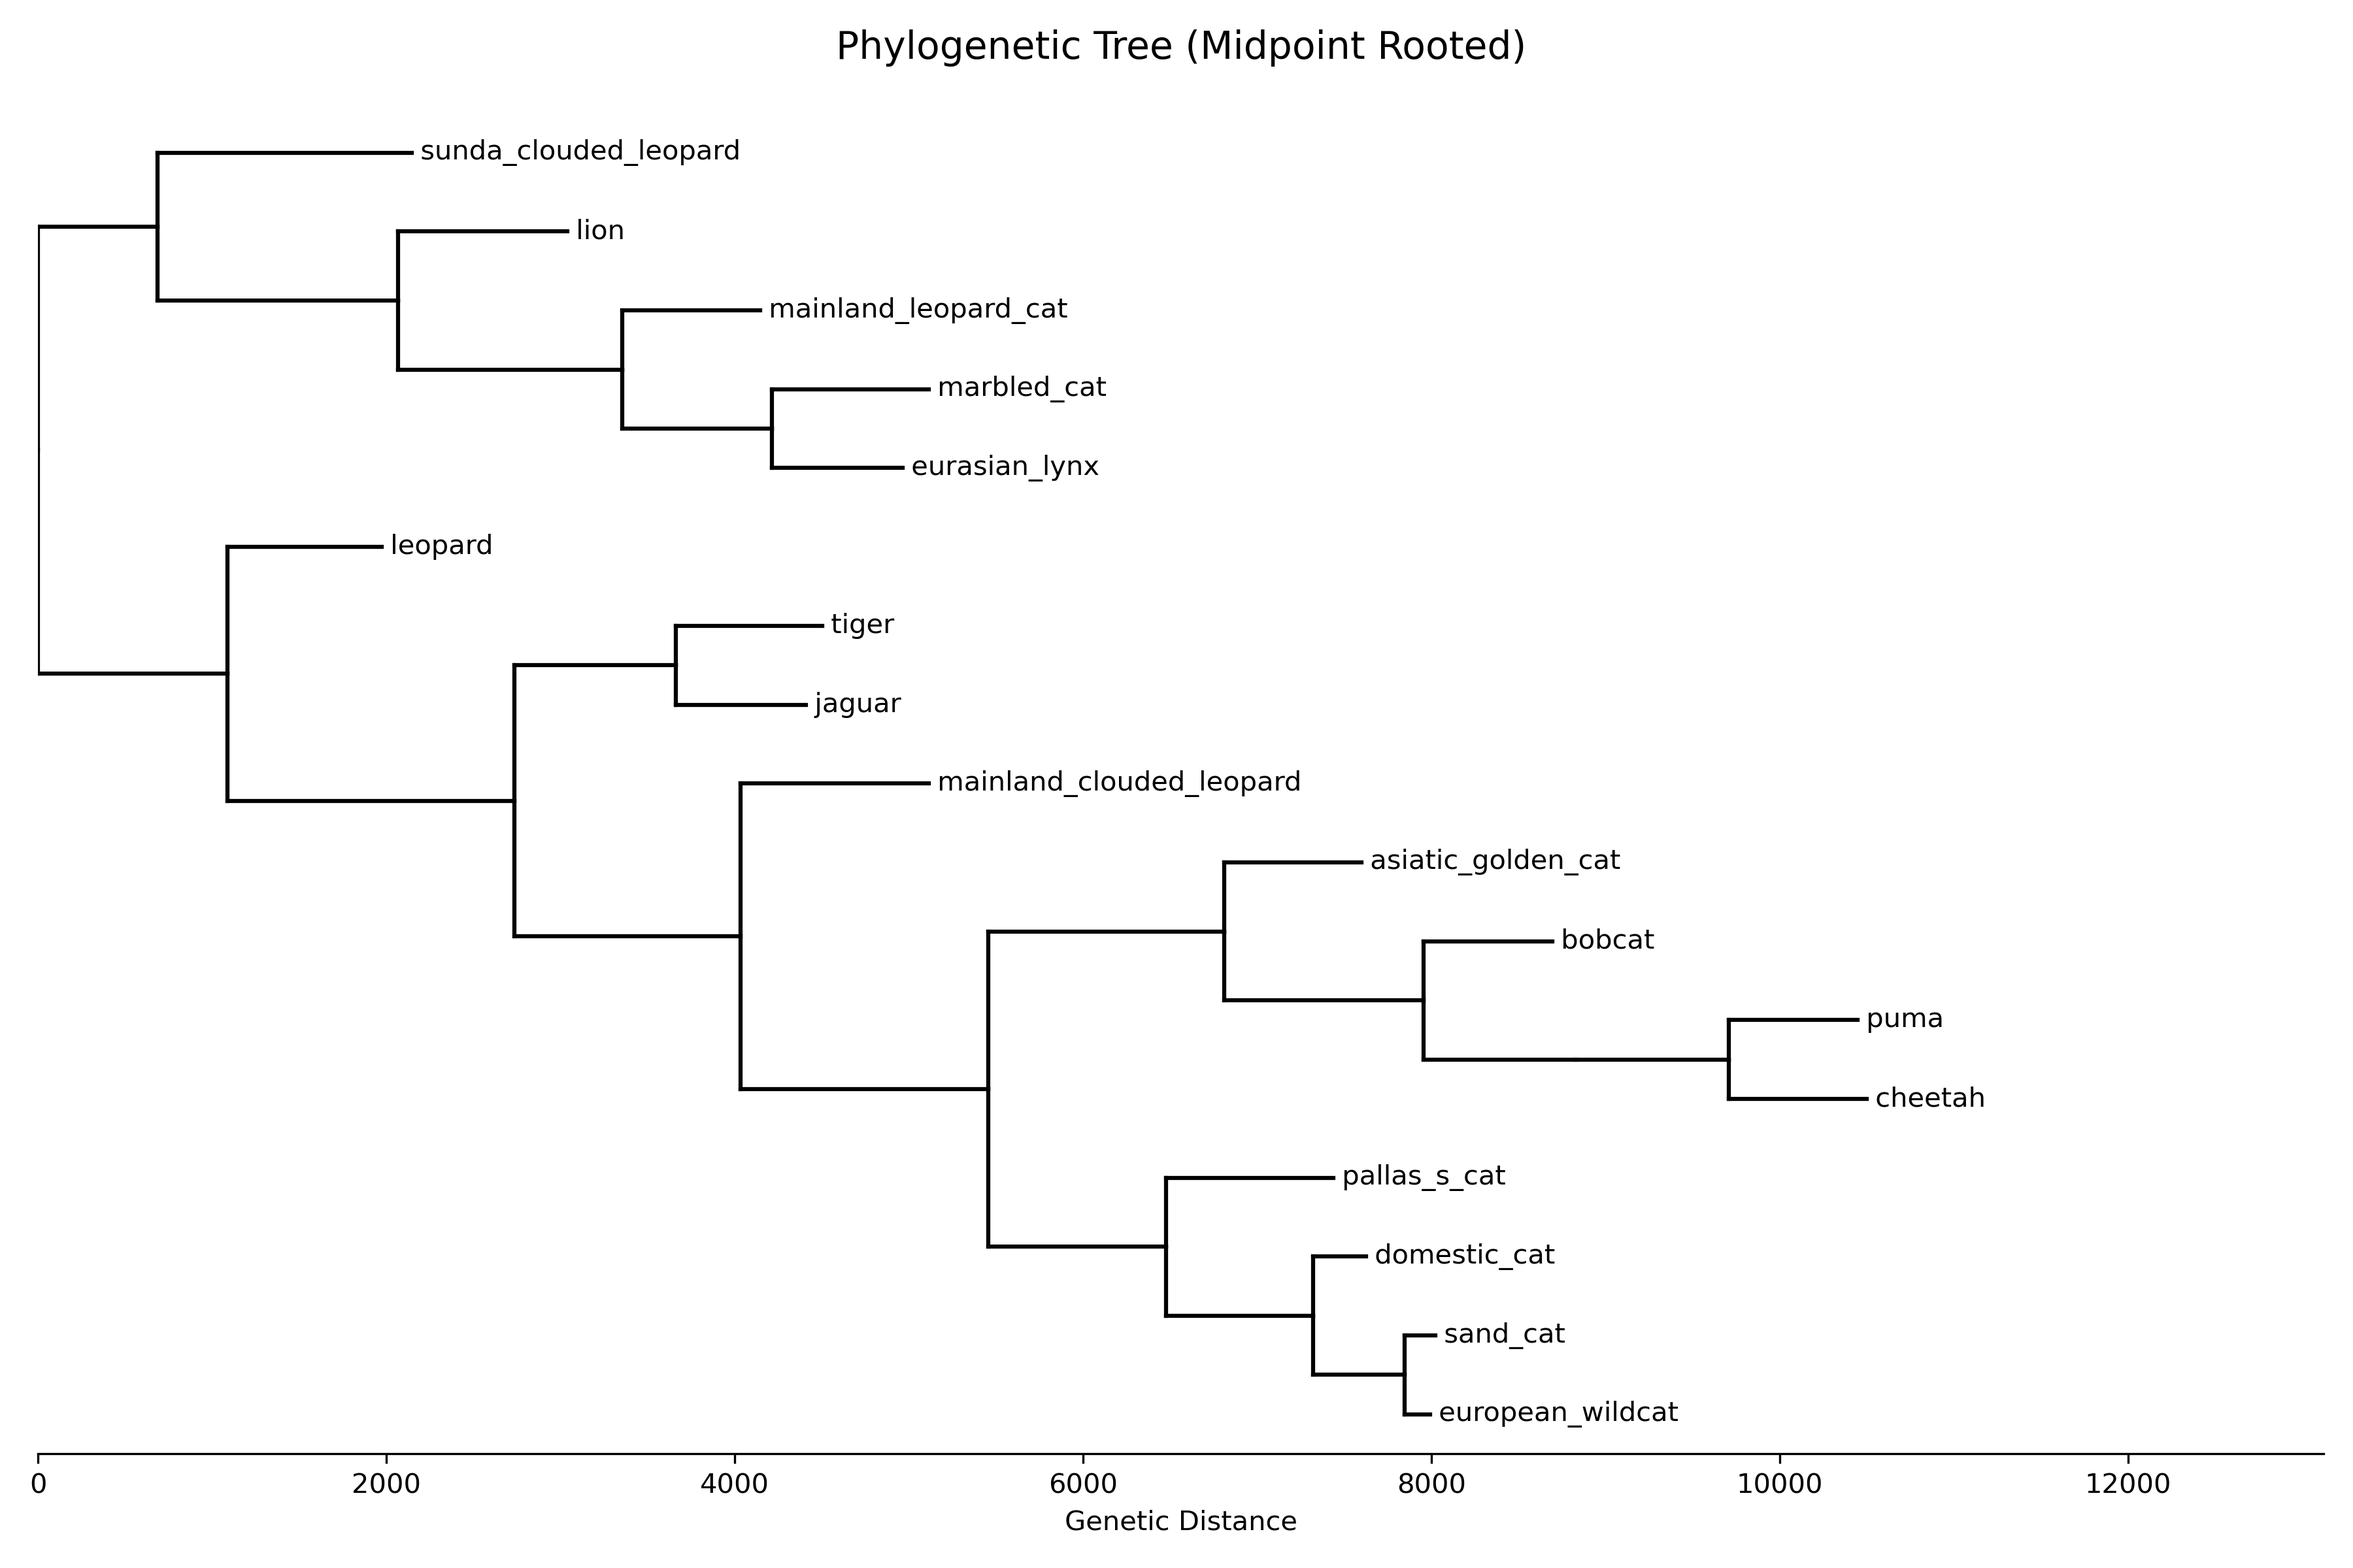
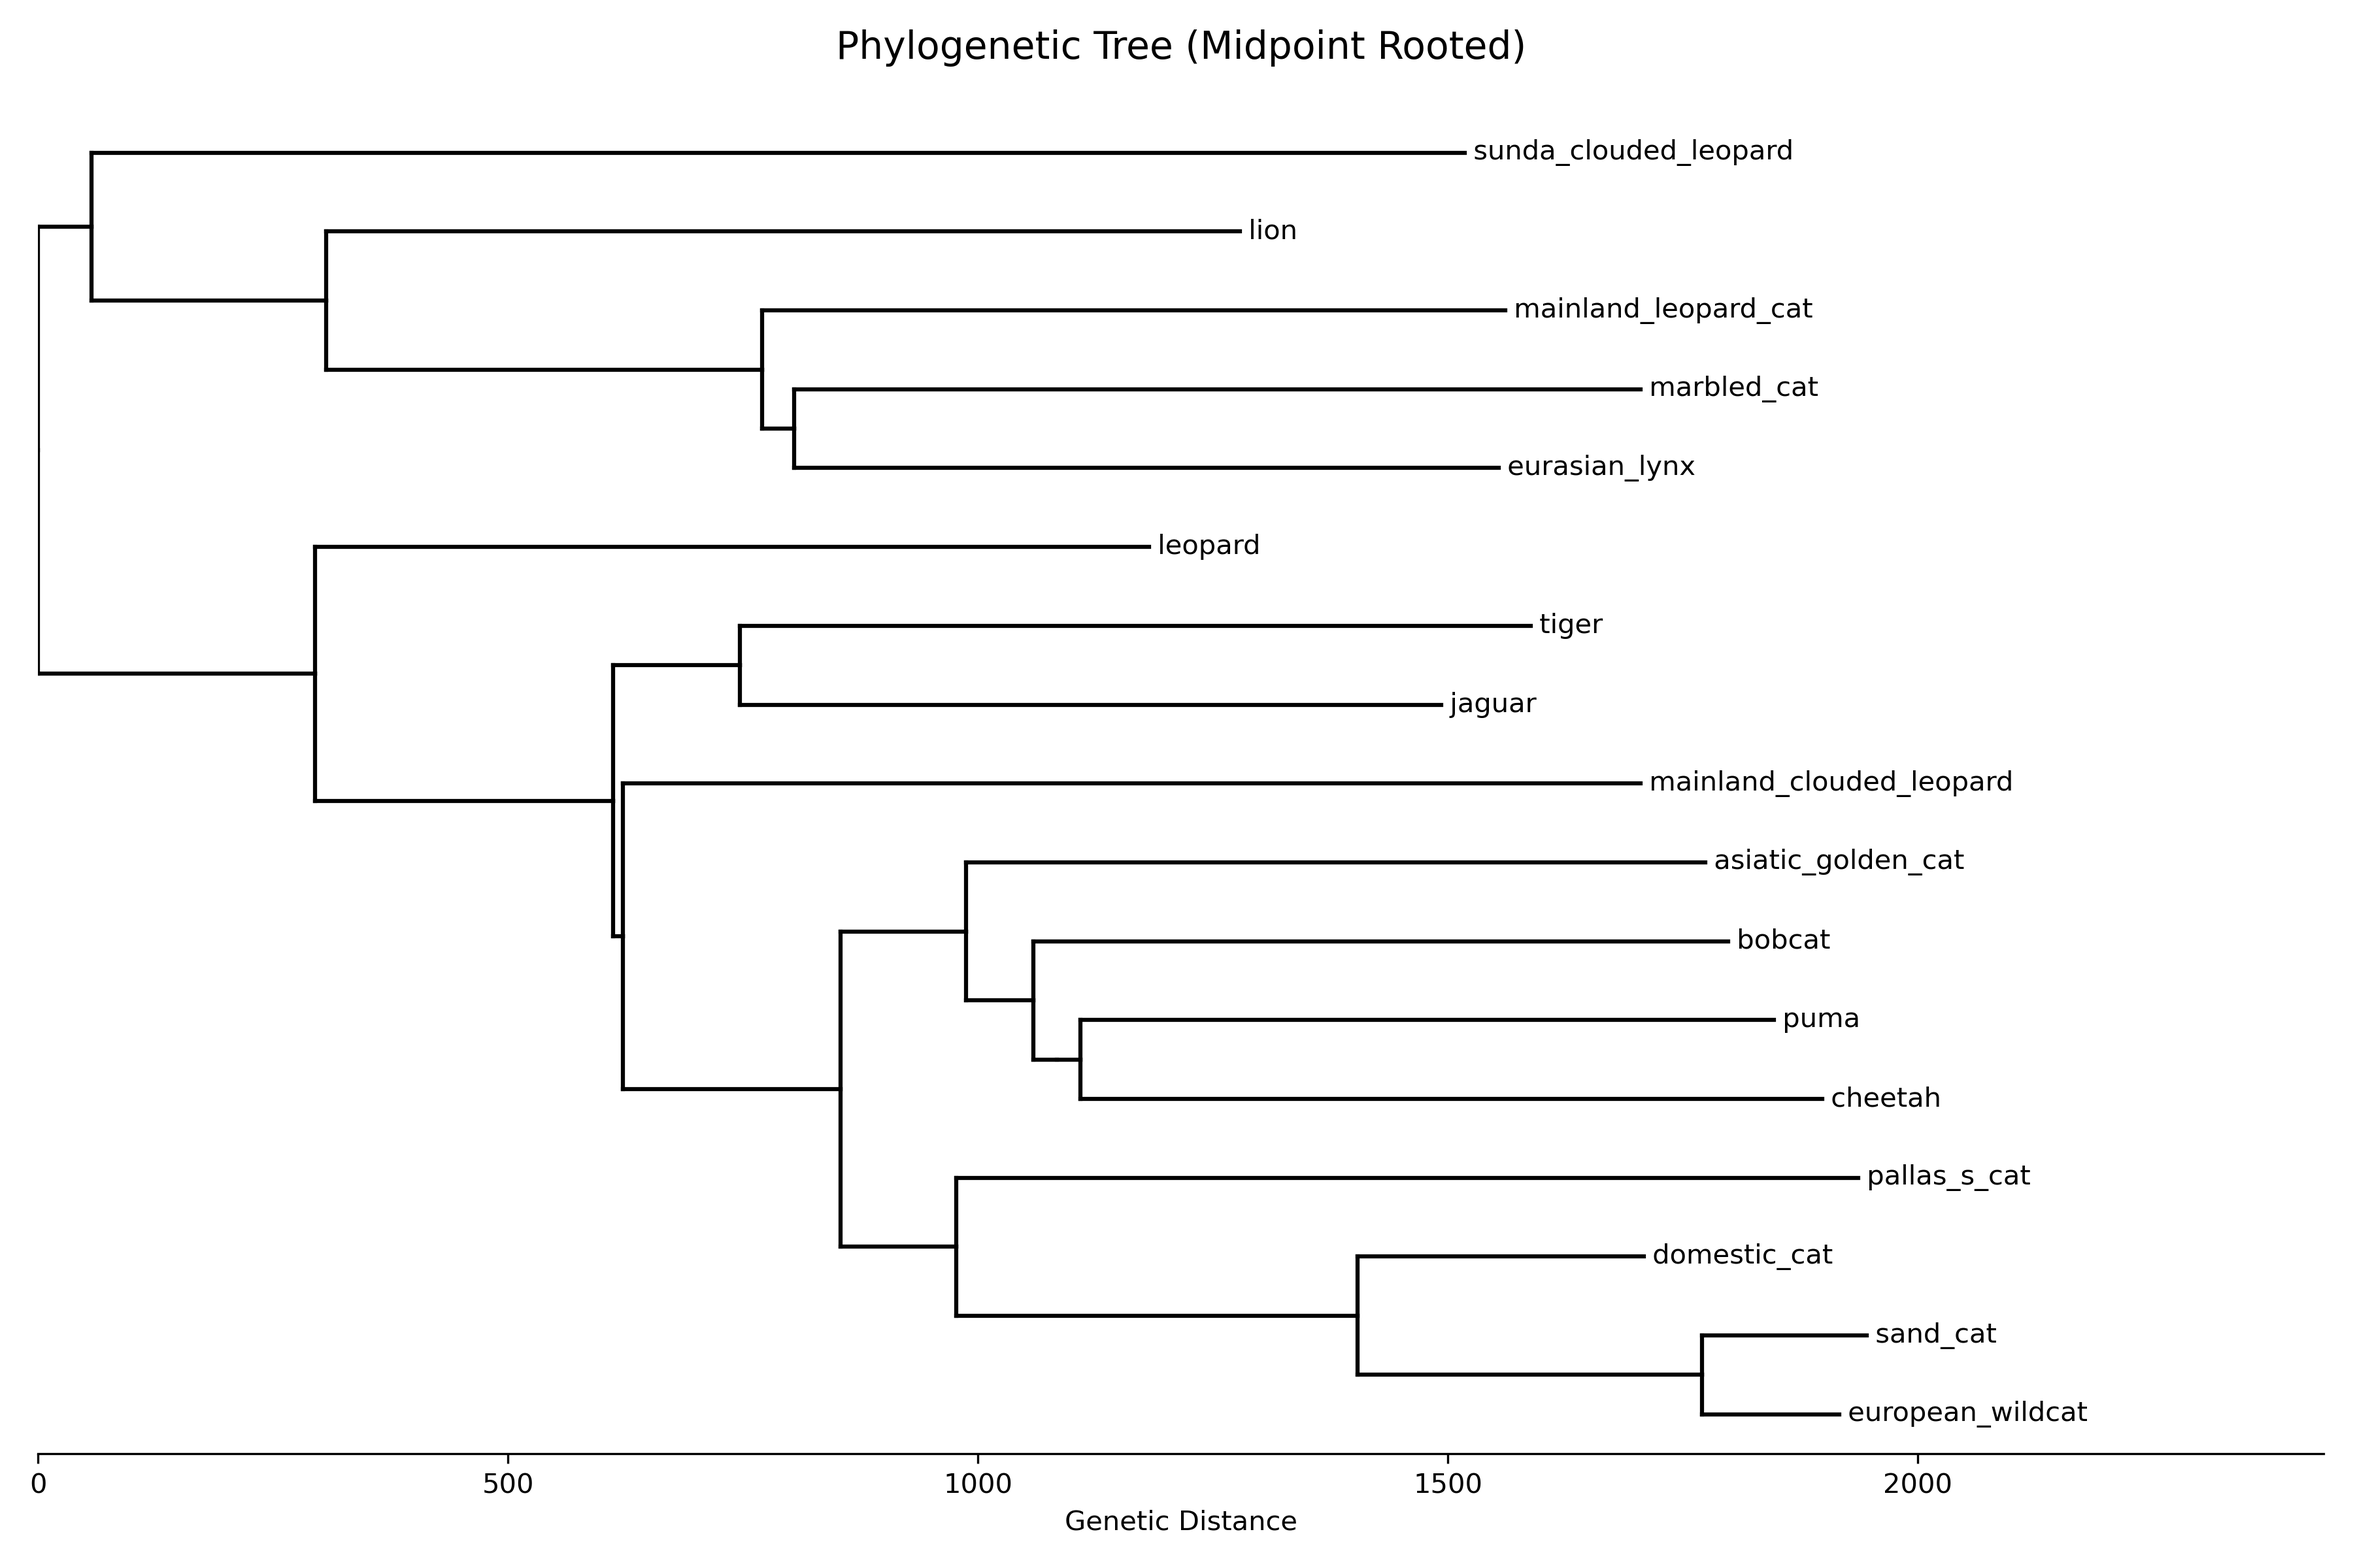
Fixed UPGMA ultrametricity

diff --git a/phylo_clustering.py b/phylo_clustering.py
@@ -10,6 +10,9 @@ class UPGMA():
     def __init__(self, matrix, labels):
         self.dm = copy.deepcopy(matrix)
         self.labels = labels[:]
+
+        self.heights = {label: 0.0 for label in labels}
+        self.sizes = {label: 1 for label in labels}
     
     def run(self, output_filename):
         internal_nodes = []
@@ -27,38 +30,55 @@ class UPGMA():
                         child_one_index = j
                         child_two_index = i
                         
+            new_height = min_distance / 2
+
+            child_one = self.labels[child_one_index]
+            child_two = self.labels[child_two_index]
+
+            branch_one = new_height - self.heights[child_one]
+            branch_two = new_height - self.heights[child_two]
+            
             # Create a parent node
-            internal_nodes.append([node_index, self.labels[child_two_index], self.labels[child_one_index], (min_distance / 2)])
+            internal_nodes.append([node_index, child_one, branch_one])
+            internal_nodes.append([node_index, child_two, branch_two])
             
             # Update Tree
-            # To prevent indices being messed up, the child with a greater index must be deleted first.
             child_to_delete_first = max(child_one_index, child_two_index)
             child_to_delete_second = min(child_one_index, child_two_index)
+
             del self.dm[child_to_delete_first]
             del self.dm[child_to_delete_second]
             del self.labels[child_to_delete_first]
             del self.labels[child_to_delete_second]
+
             new_row = []
             for i in range(len(self.labels)):
                 dist_one = self.dm[i].pop(child_to_delete_first)
                 dist_two = self.dm[i].pop(child_to_delete_second)
-                new_dist = (dist_one + dist_two)/2
+
+                size1 = self.sizes[child_one]
+                size2 = self.sizes[child_two]
+                new_dist = (size1 * dist_one + size2 * dist_two) / (size1 + size2)
+
                 self.dm[i].append(new_dist)
                 new_row.append(new_dist)
+
             new_row.append(0)
             self.dm.append(new_row)
             self.labels.append(node_index)
+            self.heights[node_index] = new_height
+            self.sizes[node_index] = size1 + size2
+
             node_index += 1
         
         # Write to output file
         with open(output_filename, "w") as f:
             for node in internal_nodes:
-                output_string = str(node[1]) + "\t" + str(node[0]) + "\t" + str(node[3]) + "\n"
-                f.write(output_string)
-                output_string = str(node[2]) + "\t" + str(node[0]) + "\t" + str(node[3]) + "\n"
+                output_string = str(node[1]) + "\t" + str(node[0]) + "\t" + str(node[2]) + "\n"
                 f.write(output_string)
         
         return
+
 
 class NeighborJoining():
     """
@@ -111,7 +131,7 @@ class NeighborJoining():
             
             # Update Tree
             # To prevent indices being messed up, the child with a greater index must be deleted first.
-            children_dist = self.dm[i][j]
+            children_dist = self.dm[i_min][j_min]
             child_to_delete_first = max(i_min, j_min)
             child_to_delete_second = min(i_min, j_min)
             del self.dm[child_to_delete_first]
@@ -129,8 +149,6 @@ class NeighborJoining():
             self.dm.append(new_row)
             self.labels.append(node_index)
             node_index += 1
-            for i in range(len(self.dm)):
-                print(self.dm[i])
         
         # Join last 2 nodes
         limb_length = self.dm[0][1] / 2

diff --git a/phylogenetic_tree.py b/phylogenetic_tree.py
@@ -28,7 +28,7 @@ if __name__ == "__main__":
             "sunda_clouded_leopard", "tiger"]
     
     # Create distance matrix from CSV file
-    distance_matrix = read_csv_to_int_array("output/alignment_table.csv")
+    distance_matrix = read_csv_to_int_array("alignment_table.csv")
     
     # Build the UPGMA tree
     upgma_tree_builder = UPGMA(distance_matrix, labels)
